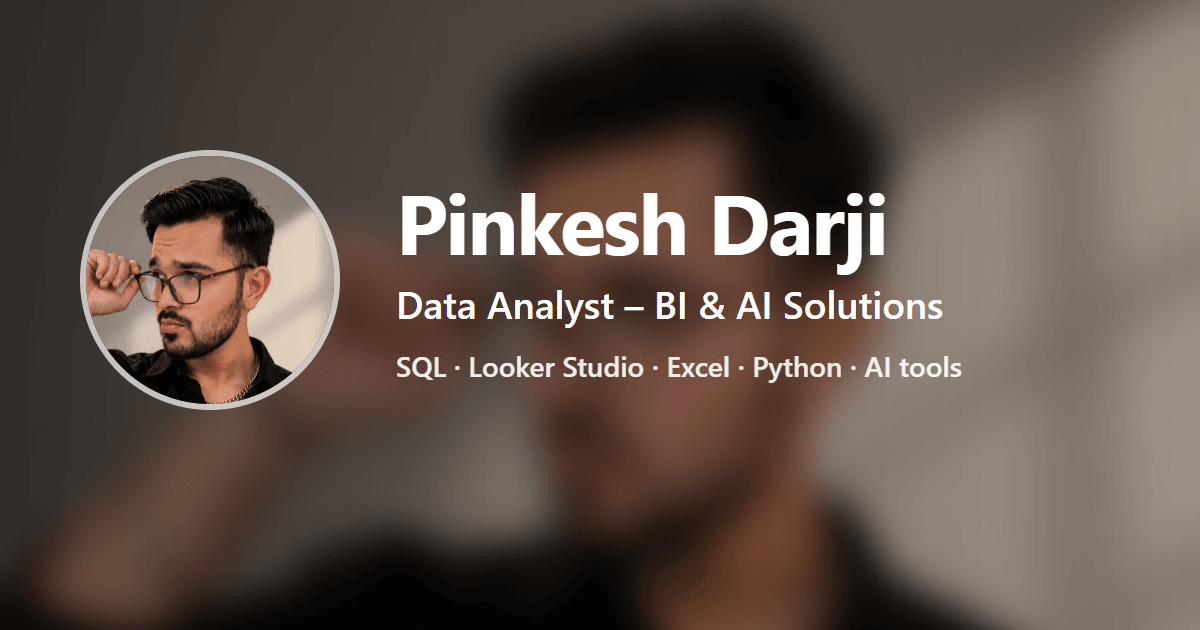
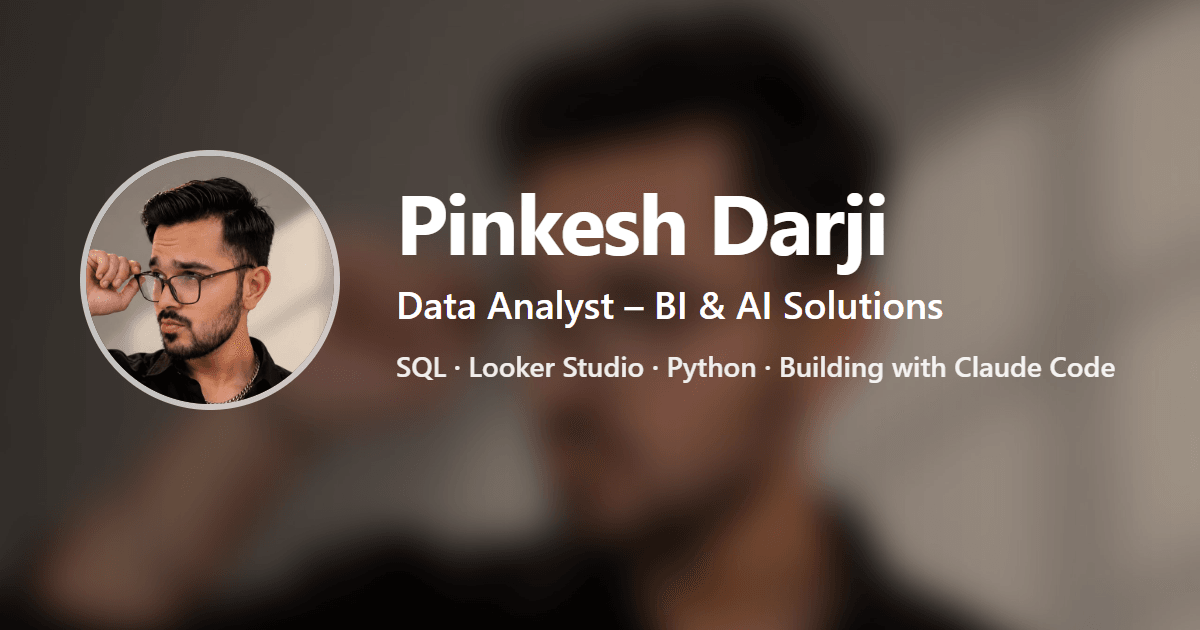
Add software-developer positioning alongside data analyst focus
Open-to-both status, About paragraph on building with Claude Code, a
Software development skills group, and updated meta/OG text.

Changed region(s): [[0.555, 0.5429, 0.925, 0.6032]]

diff --git a/simple.html b/simple.html
@@ -4,12 +4,12 @@
 <meta charset="UTF-8">
 <meta name="viewport" content="width=device-width, initial-scale=1">
 <title>Pinkesh Darji — Data Analyst (BI &amp; AI Solutions) · Simple view</title>
-<meta name="description" content="I turn factory and business data into clear dashboards, plans and AI assistants that people can actually ask questions to.">
+<meta name="description" content="I turn factory and business data into clear dashboards, plans and AI assistants, and I build the software behind them with Claude Code.">
 <meta name="color-scheme" content="light dark">
 <link rel="canonical" href="https://pinkesh-portfolio-seven.vercel.app/simple.html">
 <link rel="icon" type="image/png" sizes="32x32" href="images/favicon-32.png">
 <meta property="og:title" content="Pinkesh Darji — Data Analyst (BI &amp; AI Solutions)">
-<meta property="og:description" content="I turn factory and business data into clear dashboards, plans and AI assistants that people can actually ask questions to.">
+<meta property="og:description" content="I turn factory and business data into clear dashboards, plans and AI assistants, and I build the software behind them with Claude Code.">
 <meta property="og:image" content="https://pinkesh-portfolio-seven.vercel.app/images/og.png">
 <meta name="twitter:card" content="summary_large_image">
 <style>
@@ -50,7 +50,7 @@
   "@type": "Person",
   "name": "Pinkesh Darji",
   "jobTitle": "Data Analyst – BI & AI Solutions",
-  "description": "I turn factory and business data into clear dashboards, plans and AI assistants that people can actually ask questions to.",
+  "description": "I turn factory and business data into clear dashboards, plans and AI assistants, and I build the software behind them with Claude Code.",
   "url": "https://pinkesh-portfolio-seven.vercel.app/",
   "image": "https://pinkesh-portfolio-seven.vercel.app/images/avatar.jpg",
   "email": "mailto:pinkeshd29@gmail.com",
@@ -73,10 +73,10 @@
       <div>
         <h1>Pinkesh Darji</h1>
         <p class="muted" style="margin:.2rem 0 0">Data Analyst – BI &amp; AI Solutions · Vezapp Solutions LLP, Vadodara</p>
-        <p class="muted" style="margin:.2rem 0 0">Open to Data Analyst roles · Ahmedabad / Vadodara</p>
+        <p class="muted" style="margin:.2rem 0 0">Open to Data Analyst and Software Developer roles · Ahmedabad / Vadodara</p>
       </div>
     </div>
-    <p class="lead">I turn factory and business data into clear dashboards, plans and AI assistants that people can actually ask questions to.</p>
+    <p class="lead">I turn factory and business data into clear dashboards, plans and AI assistants, and I build the software behind them with Claude Code.</p>
     <p class="links"><a href="Pinkesh_Darji_Resume.pdf">Resume (PDF)</a><a href="mailto:pinkeshd29@gmail.com">pinkeshd29@gmail.com</a><a href="https://www.linkedin.com/in/pinkesh29" rel="noopener">LinkedIn</a><a href="https://github.com/Pinkesh2905" rel="noopener">GitHub</a></p>
     <nav class="jump" aria-label="Sections"><a href="#about">About</a><a href="#experience">Experience</a><a href="#projects">Projects</a><a href="#skills">Skills</a><a href="#education">Education</a><a href="#contact">Contact</a></nav>
   </header>
@@ -85,9 +85,10 @@
     <h2>About</h2>
     <p>I&#39;m a Data Analyst at Vezapp Solutions in Vadodara, working with foundry and manufacturing clients. My day-to-day is SQL on client production databases, Looker Studio dashboards, cleaning and loading client data, and setting up shop-floor data-entry apps.</p>
     <p>I also build AI tools on top of that data, like assistants that let plant managers ask &quot;how many moulds were rejected last week?&quot; in plain English instead of opening a dashboard.</p>
+    <p>I&#39;m also open to software developer roles. Building working products is what interests me most, especially with AI tools like Claude Code. Vezapp Planner (Django, Next.js, PostgreSQL), the AI data assistants for clients and a live store system for a freelance client were all built that way.</p>
     <p><strong>How I work with AI:</strong> I build my tools with Claude Code. My part is understanding what the client needs, giving the AI the right data structure and rules, checking every answer against the real data, and fixing what&#39;s wrong.</p>
     <p class="muted">MCA (CHARUSAT) · Google Data Analytics certified.</p>
-    <p class="muted">Interests: Data analytics · AI tools · Building products for real businesses.</p>
+    <p class="muted">Interests: Data analytics · Software development · Building with AI tools.</p>
   </section>
 
   <section id="experience">
@@ -157,7 +158,7 @@
   <article class="project" id="home-art-furniture">
     <h3>Home Art Furniture <span class="tag">Freelance client · Live</span></h3>
     <p class="muted">Business system for a furniture store</p>
-    <p>Order, inventory, payment and delivery system used daily by the store, with sales and payment reports.</p>
+    <p>Order, inventory, payment and delivery system used daily by the store, with sales and payment reports. Built with Django using AI coding tools (Claude Code, Antigravity), and each feature was tested with the store owner before handover.</p>
     <p><strong>Tools:</strong> Django · PostgreSQL</p>
     <p><a href="https://github.com/Pinkesh2905/HomeArtFurniture" rel="noopener">GitHub</a></p>
   </article>
@@ -177,8 +178,9 @@
       <li><strong>SQL:</strong> MySQL on AWS RDS (joins, GROUP BY, subqueries, indexes)</li>
       <li><strong>Dashboards &amp; reporting:</strong> Looker Studio, Power BI (basic), Excel, Google Sheets</li>
       <li><strong>Python:</strong> Pandas, NumPy, Matplotlib</li>
-      <li><strong>Tools:</strong> Clappia (no-code apps), Django, Git/GitHub</li>
-      <li><strong>AI tools:</strong> Claude, Claude Code, ChatGPT, Gemini</li>
+      <li><strong>Software development:</strong> Django, Next.js, PostgreSQL, Git/GitHub</li>
+      <li><strong>AI tools:</strong> Claude Code (building apps and data tools), Claude API and MCP servers, Claude, ChatGPT, Gemini</li>
+      <li><strong>Tools:</strong> Clappia (no-code apps)</li>
     </ul>
   </section>
 

diff --git a/js/content.js b/js/content.js
@@ -21,9 +21,9 @@ export const identity = {
   name: 'Pinkesh Darji',
   title: 'Data Analyst – BI & AI Solutions',
   oneLiner:
-    'I turn factory and business data into clear dashboards, plans and AI assistants that people can actually ask questions to.',
-  status: 'Open to Data Analyst roles',
-  statusLong: 'Open to Data Analyst roles · Ahmedabad / Vadodara',
+    'I turn factory and business data into clear dashboards, plans and AI assistants, and I build the software behind them with Claude Code.',
+  status: 'Open to Data Analyst & Developer roles',
+  statusLong: 'Open to Data Analyst and Software Developer roles · Ahmedabad / Vadodara',
   company: 'Vezapp Solutions LLP',
   companyCity: 'Vadodara',
   location: 'Borsad, Gujarat, India',
@@ -50,10 +50,11 @@ export const about = {
   paragraphs: [
     "I'm a Data Analyst at Vezapp Solutions in Vadodara, working with foundry and manufacturing clients. My day-to-day is SQL on client production databases, Looker Studio dashboards, cleaning and loading client data, and setting up shop-floor data-entry apps.",
     'I also build AI tools on top of that data, like assistants that let plant managers ask "how many moulds were rejected last week?" in plain English instead of opening a dashboard.',
+    "I'm also open to software developer roles. Building working products is what interests me most, especially with AI tools like Claude Code. Vezapp Planner (Django, Next.js, PostgreSQL), the AI data assistants for clients and a live store system for a freelance client were all built that way.",
     "**How I work with AI:** I build my tools with Claude Code. My part is understanding what the client needs, giving the AI the right data structure and rules, checking every answer against the real data, and fixing what's wrong.",
   ],
   credentials: 'MCA (CHARUSAT) · Google Data Analytics certified.',
-  interests: ['Data analytics', 'AI tools', 'Building products for real businesses'],
+  interests: ['Data analytics', 'Software development', 'Building with AI tools'],
 };
 
 export const experience = [
@@ -188,7 +189,7 @@ export const projects = [
     icon: 'briefcase',
     gradient: 'linear-gradient(135deg,#f97316,#f59e0b)',
     summary:
-      'Order, inventory, payment and delivery system used daily by the store, with sales and payment reports.',
+      'Order, inventory, payment and delivery system used daily by the store, with sales and payment reports. Built with Django using AI coding tools (Claude Code, Antigravity), and each feature was tested with the store owner before handover.',
     tools: ['Django', 'PostgreSQL'],
     shots: [],
     links: [{ label: 'GitHub', href: 'https://github.com/Pinkesh2905/HomeArtFurniture' }],
@@ -224,12 +225,13 @@ export const skills = [
   { group: 'SQL', items: ['MySQL on AWS RDS (joins, GROUP BY, subqueries, indexes)'] },
   { group: 'Dashboards & reporting', items: ['Looker Studio', 'Power BI (basic)', 'Excel', 'Google Sheets'] },
   { group: 'Python', items: ['Pandas', 'NumPy', 'Matplotlib'] },
-  { group: 'Tools', items: ['Clappia (no-code apps)', 'Django', 'Git/GitHub'] },
-  { group: 'AI tools', items: ['Claude', 'Claude Code', 'ChatGPT', 'Gemini'] },
+  { group: 'Software development', items: ['Django', 'Next.js', 'PostgreSQL', 'Git/GitHub'] },
+  { group: 'AI tools', items: ['Claude Code (building apps and data tools)', 'Claude API and MCP servers', 'Claude', 'ChatGPT', 'Gemini'] },
+  { group: 'Tools', items: ['Clappia (no-code apps)'] },
 ];
 
 /** Four short lines for the home-screen "Skills" widget. */
-export const skillsWidget = ['SQL', 'Looker Studio', 'Excel', 'Python'];
+export const skillsWidget = ['SQL', 'Looker Studio', 'Python · Django', 'Claude Code'];
 
 export const education = {
   degrees: [

diff --git a/index.html b/index.html
@@ -4,7 +4,7 @@
 <meta charset="UTF-8">
 <meta name="viewport" content="width=device-width, initial-scale=1, viewport-fit=cover">
 <title>Pinkesh Darji — Data Analyst (BI &amp; AI Solutions)</title>
-<meta name="description" content="I turn factory and business data into clear dashboards, plans and AI assistants that people can actually ask questions to.">
+<meta name="description" content="I turn factory and business data into clear dashboards, plans and AI assistants, and I build the software behind them with Claude Code.">
 <meta name="author" content="Pinkesh Darji">
 <meta name="theme-color" content="#1c1b1b">
 <meta name="color-scheme" content="light dark">
@@ -14,7 +14,7 @@
 <meta property="og:type" content="website">
 <meta property="og:site_name" content="Pinkesh Darji">
 <meta property="og:title" content="Pinkesh Darji — Data Analyst (BI &amp; AI Solutions)">
-<meta property="og:description" content="I turn factory and business data into clear dashboards, plans and AI assistants that people can actually ask questions to.">
+<meta property="og:description" content="I turn factory and business data into clear dashboards, plans and AI assistants, and I build the software behind them with Claude Code.">
 <meta property="og:url" content="https://pinkesh-portfolio-seven.vercel.app/">
 <meta property="og:image" content="https://pinkesh-portfolio-seven.vercel.app/images/og.png">
 <meta property="og:image:width" content="1200">
@@ -22,7 +22,7 @@
 <meta property="og:image:alt" content="Pinkesh Darji, Data Analyst – BI &amp; AI Solutions">
 <meta name="twitter:card" content="summary_large_image">
 <meta name="twitter:title" content="Pinkesh Darji — Data Analyst (BI &amp; AI Solutions)">
-<meta name="twitter:description" content="I turn factory and business data into clear dashboards, plans and AI assistants that people can actually ask questions to.">
+<meta name="twitter:description" content="I turn factory and business data into clear dashboards, plans and AI assistants, and I build the software behind them with Claude Code.">
 <meta name="twitter:image" content="https://pinkesh-portfolio-seven.vercel.app/images/og.png">
 
 <link rel="icon" type="image/png" sizes="32x32" href="images/favicon-32.png">
@@ -44,14 +44,14 @@
   "@type": "Person",
   "name": "Pinkesh Darji",
   "jobTitle": "Data Analyst – BI & AI Solutions",
-  "description": "I turn factory and business data into clear dashboards, plans and AI assistants that people can actually ask questions to.",
+  "description": "I turn factory and business data into clear dashboards, plans and AI assistants, and I build the software behind them with Claude Code.",
   "url": "https://pinkesh-portfolio-seven.vercel.app/",
   "image": "https://pinkesh-portfolio-seven.vercel.app/images/avatar.jpg",
   "email": "mailto:pinkeshd29@gmail.com",
   "address": { "@type": "PostalAddress", "addressLocality": "Borsad", "addressRegion": "Gujarat", "addressCountry": "IN" },
   "worksFor": { "@type": "Organization", "name": "Vezapp Solutions LLP" },
   "alumniOf": { "@type": "CollegeOrUniversity", "name": "CHARUSAT University" },
-  "knowsAbout": ["SQL", "Looker Studio", "Excel", "Python", "Data analytics"],
+  "knowsAbout": ["SQL", "Looker Studio", "Excel", "Python", "Data analytics", "Django", "Next.js", "Software development", "Claude Code"],
   "sameAs": ["https://www.linkedin.com/in/pinkesh29", "https://github.com/Pinkesh2905"]
 }
 </script>
